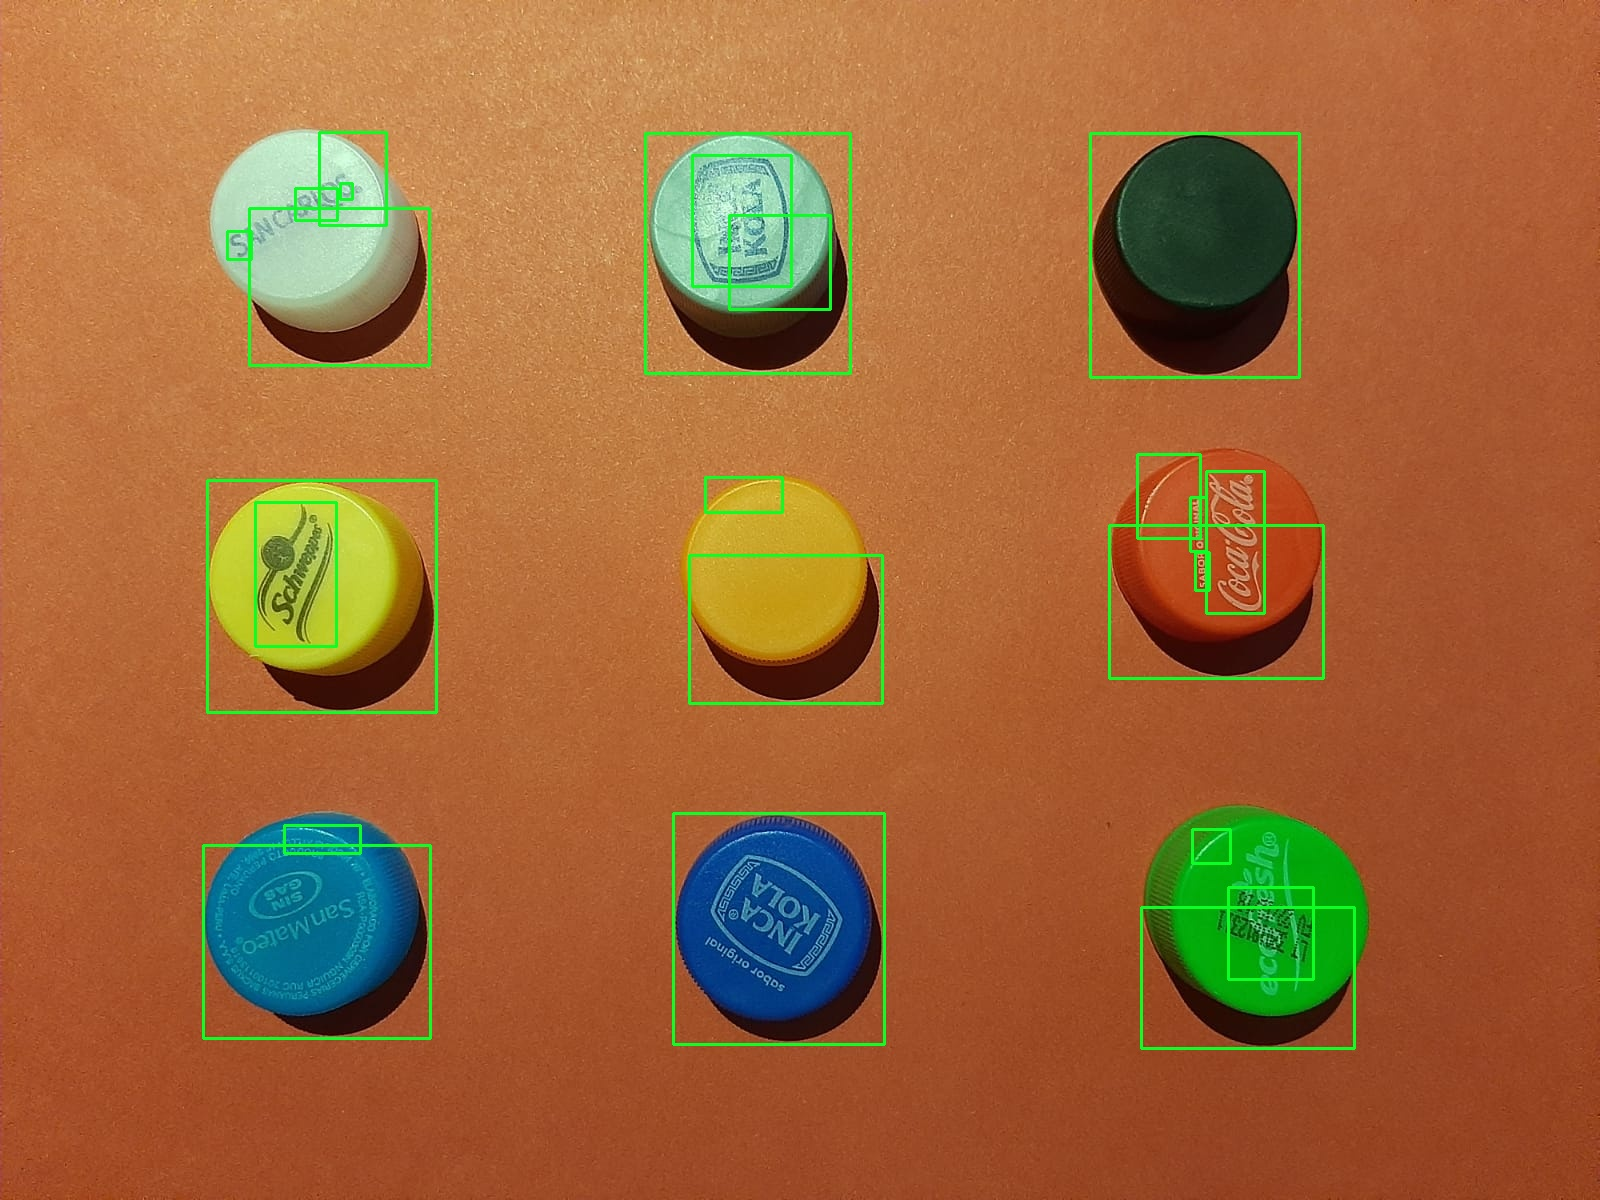
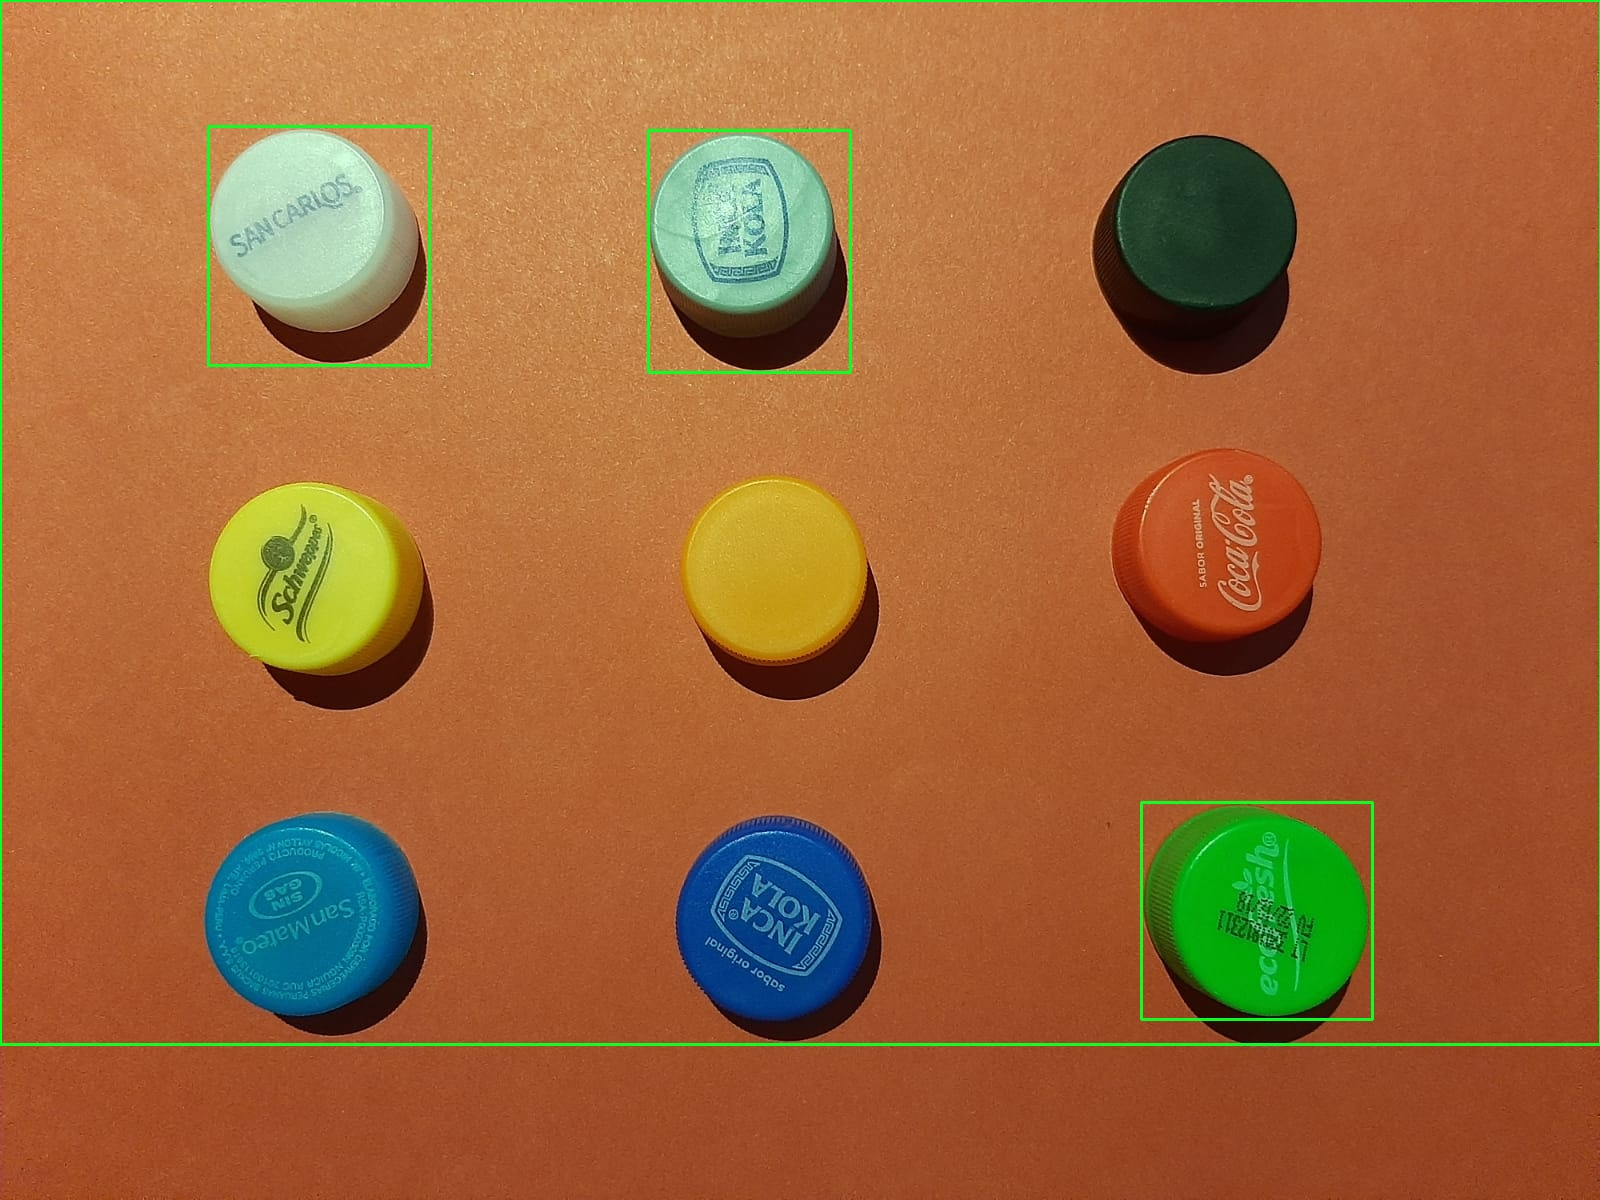
Object detection with LAB color image processing

diff --git a/object_detection.py b/object_detection.py
@@ -1,7 +1,7 @@
 import os
 import numpy as np
 import cv2
-import skimage
+from skimage import color
 from matplotlib import pyplot as plt
 from sklearn.cluster import KMeans
 
@@ -16,13 +16,34 @@ for directory in os.listdir("data/input"):
 
 		image = cv2.imread(input_path)
 		original = image.copy()
+
+		lab_image = cv2.cvtColor(image, cv2.COLOR_BGR2LAB)
+		lab_image_radius = np.sum(np.abs(lab_image.astype("float64"))**2,axis=-1)**(1./2)
+		lab_image = lab_image - 128
+		lab_image = np.round(lab_image * np.expand_dims(128 / lab_image_radius, axis=-1)).astype('uint8')
+		lab_image = lab_image + 128
+		lab_image_radius = np.sum(np.abs(lab_image.astype("float64"))**2,axis=-1)**(1./2)
+		lab_image[:,:,0] = 128
+		for row in range(lab_image.shape[0]):
+			for col in range(lab_image.shape[1]):
+				if lab_image_radius[row, col] < 255:
+					lab_image[row, col] = [0, 128, 128]
+		hue_image = cv2.cvtColor(lab_image, cv2.COLOR_LAB2BGR)
+		#hue_image = hue_image * 8
+		#hue_image = np.abs(hue_image - 128)
+		#hue_image = image
 		
-		gray = cv2.cvtColor(image, cv2.COLOR_BGR2GRAY)
+		gray = cv2.cvtColor(hue_image, cv2.COLOR_BGR2GRAY)
 		blurred = cv2.GaussianBlur(gray, (3, 3), 0)
 		canny = cv2.Canny(blurred, 120, 255, 1)
 		kernel = np.ones((5,5),np.uint8)
 		dilate = cv2.dilate(canny, kernel, iterations=1)
-		
+
+		cv2.imwrite("data/lab/" + directory + "/" + filename, hue_image)
+		cv2.imwrite("data/gray/" + directory + "/" + filename, gray)
+		cv2.imwrite("data/blurred/" + directory + "/" + filename, gray)
+		cv2.imwrite("data/canny/" + directory + "/" + filename, canny)
+
 		# Find contours
 		cnts = cv2.findContours(dilate, cv2.RETR_EXTERNAL, cv2.CHAIN_APPROX_SIMPLE)
 		cnts = cnts[0] if len(cnts) == 2 else cnts[1]
@@ -31,12 +52,15 @@ for directory in os.listdir("data/input"):
 		image_number = 0
 		for c in cnts:
 			x,y,w,h = cv2.boundingRect(c)
+
+			if w < 100 or h < 100:
+				continue
 			
 			valid_points = []
 		
 			# Evaluate only points inside ellipse
-			for row in range(y, y + h + 1):
-				for col in range(x, x + w + 1):
+			for row in range(y, y + h):
+				for col in range(x, x + w):
 					# Points to be transformed in the plane
 					y_tran = row
 					x_tran = col
@@ -75,8 +99,8 @@ for directory in os.listdir("data/input"):
 		
 			object_color = kmeans.cluster_centers_[index]
 		
-			# print("Object", image_number, "color: ", skimage.color.rgb2lab(object_color))
-			print("Object", image_number, "color: ", object_color)
+			print("Object", image_number, "color: ", color.rgb2lab(object_color))
+			# print("Object", image_number, "color: ", object_color)
 		
 			if constant_box_color:
 				box_color = (36,255,12)
